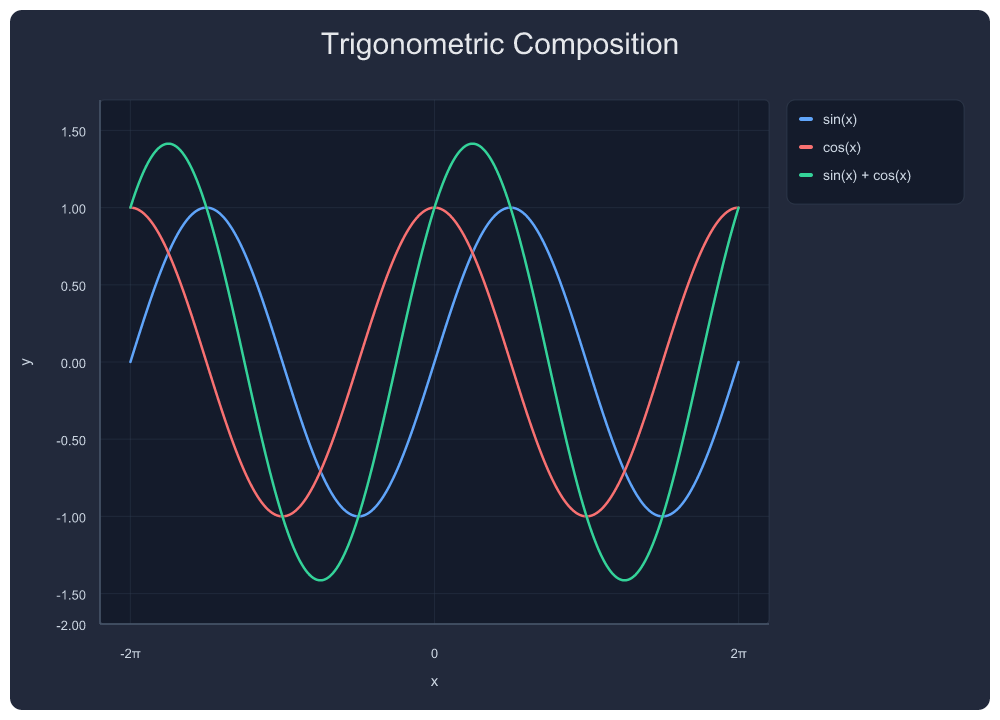
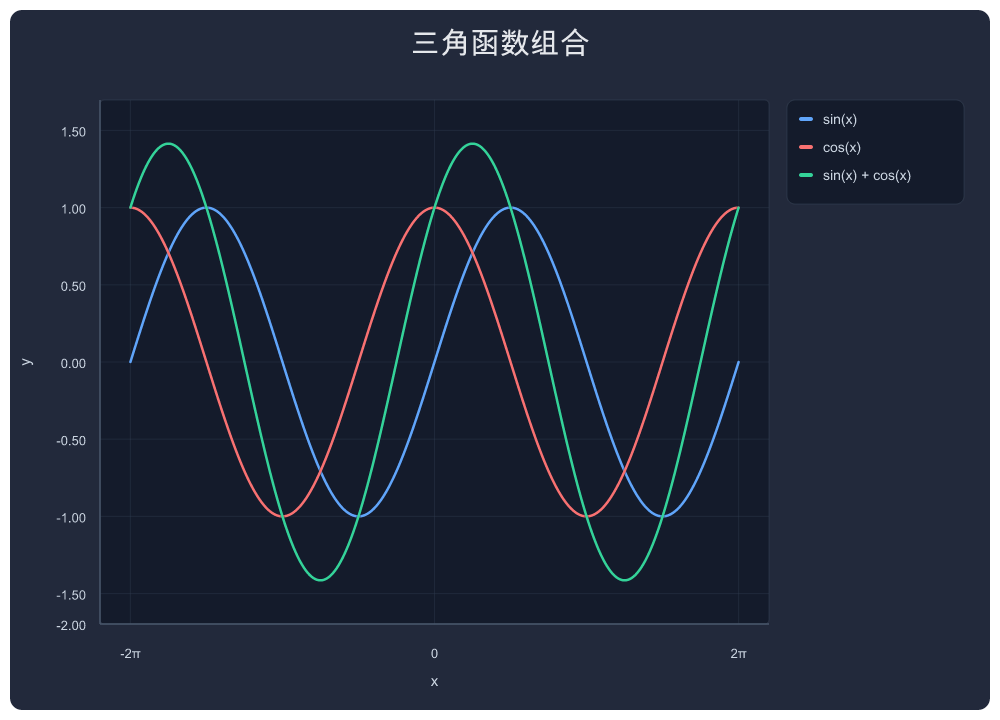
fix: CN showcase #1,#4 titles to Chinese, regenerate

Changed region(s): [[0.31, 0.0306, 0.682, 0.0917]]

diff --git a/README_CN.md b/README_CN.md
@@ -19,7 +19,7 @@ sin、cos 及其叠加——自动检测 π 轴模式，y 轴 trig 专用刻度 
   "exprs": ["sin(x)", "cos(x)", "sin(x)+cos(x)"],
   "labels": ["sin(x)", "cos(x)", "sin(x) + cos(x)"],
   "x_min": -6.283, "x_max": 6.283,
-  "title": "Trigonometric Composition"
+  "title": "三角函数组合"
 }}
 ```
 
@@ -68,7 +68,7 @@ sin、cos 及其叠加——自动检测 π 轴模式，y 轴 trig 专用刻度 
 {"tool": "plot_png_link", "arguments": {
   "expr": "sin(x)/x",
   "x_min": -15, "x_max": 15,
-  "title": "sinc(x) = sin(x)/x"
+  "title": "sinc 函数: sin(x)/x"
 }}
 ```
 
